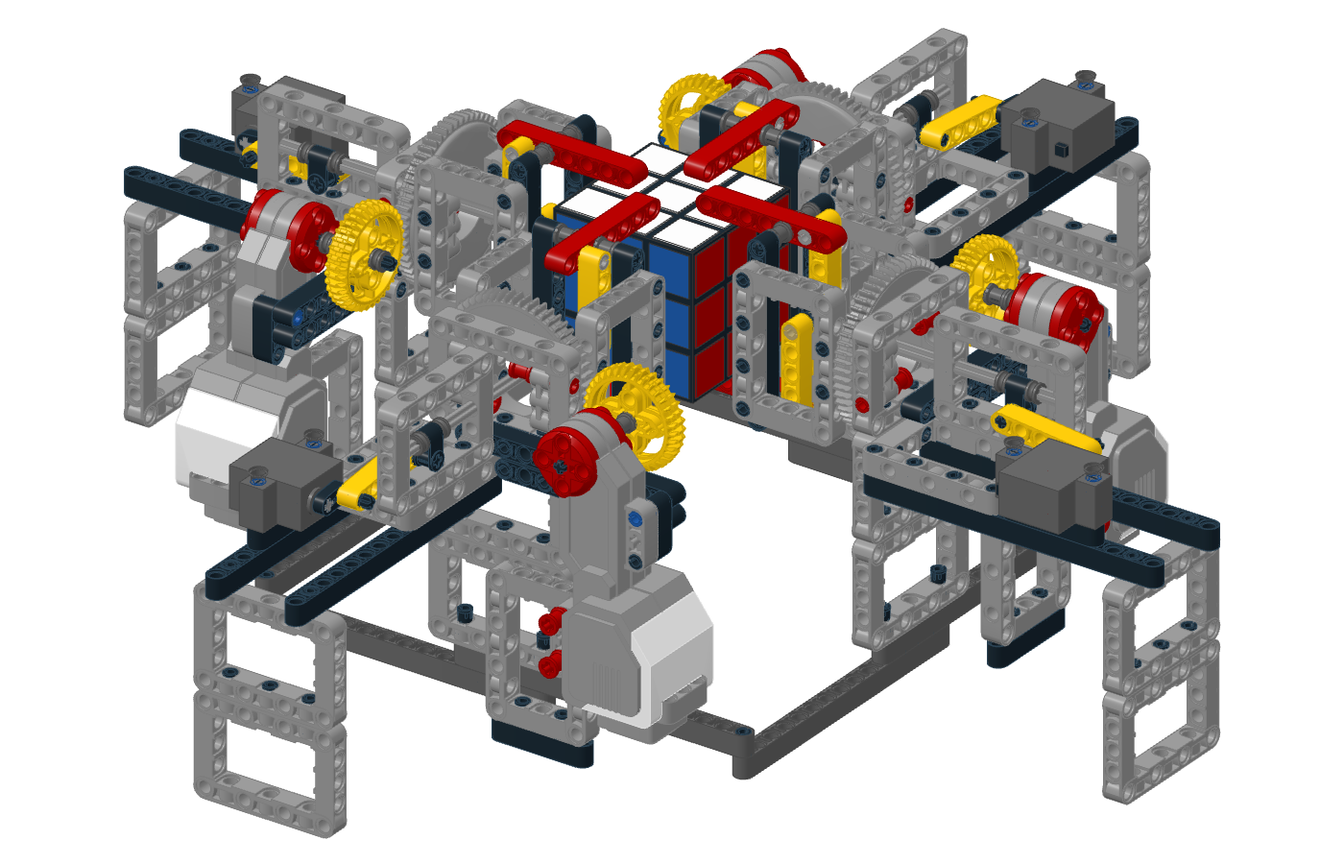
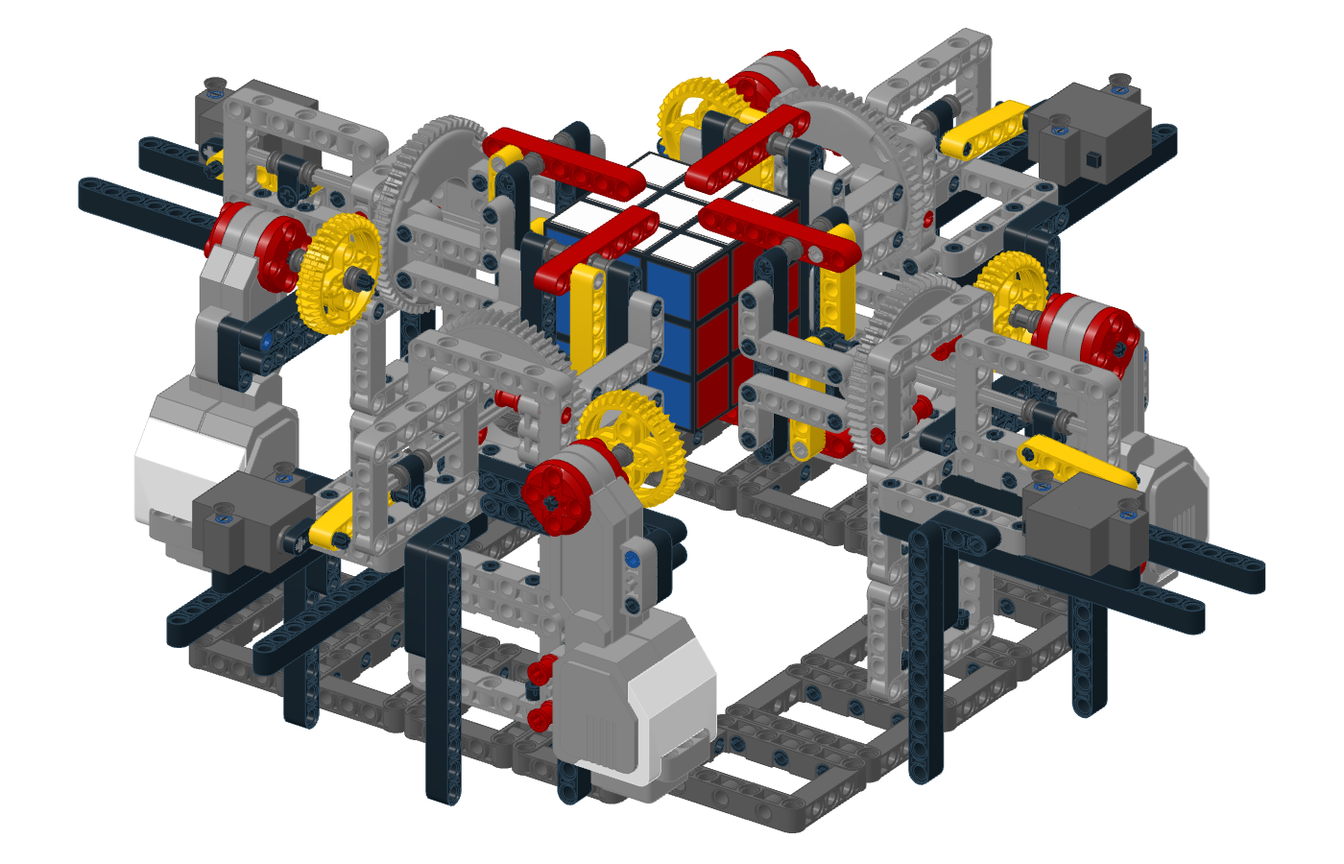
v3 恢复框架底座，模块里更多框架换成竖梁和 L 形梁（整机 36 块）
用户指出：底座不该简化（要有完整的面），而模块里还有很多框架可以用竖梁、
L 形梁代替而不影响刚度。
- 底座恢复为 16 块框架的风车形方框，桌面回到 y = 270。
- 机械头侧板：每侧改成两根 3x5 L 形梁，长臂接转盘上半、短臂和长臂末端
  共 4 个销接 9 孔梁，不会绕销转动。
- 平台支腿：两块框架改为每侧一根 L 形梁（短臂 2 个销插框架长边侧孔）+
  一根 11 孔竖梁。
- 马达尾部耳朵缝里的框架改为一根竖放的 7 孔梁，兼作脚。
模块里只留竖墙 3、推杆导向 1、平台前半 1。run_check、four_arm 零问题。

Claude-Session: https://claude.ai/code/session_01Ms6v6oKbLQsBqZ2uktk7cX

diff --git a/docs/lego/v3/index.html b/docs/lego/v3/index.html
@@ -90,12 +90,12 @@ ul.plain{margin:0;padding-left:1.2em;display:grid;gap:6px;max-width:70ch}
 <h1>四臂整机: 死点锁紧夹爪 + 不随转的舵机</h1>
 <p class="lead">v2 解决了 "机械臂挂在马达输出轴上" 的问题, 但它仍然是一只单臂, 转动部分又长又重, 舵机跟着转。CubeStormer 3 这一级别的机器, 专业性体现在整机: 四只机械手又短又轻、夹得住也松得开、能连续旋转, 四只之间互不干涉。v3 按这个目标从整机重新设计, 自成一套模型和检查。之前的版本都保留不动: <a href="https://claude.ai/artifact/BWgtEpkX4PGRGnYzvNV2L4">v1 大马达版</a>、<a href="https://claude.ai/artifact/9yGEt1ogaxxmStkyxYWYBL">v2 转盘版</a>。</p>
 <div class="plate"><img src="img/cover.png" alt="四臂整机总览" class="" loading="lazy" width="1400" height="900"></div>
-<div class="facts"><div class="fact"><b>20</b><span>个步骤 (一个模块的完整步骤, 其余三个照做)</span></div><div class="fact"><b>432</b><span>个乐高零件, 另加 EV3 大马达和 Geekservo 各 4 个</span></div><div class="fact"><b>约 52 mm</b><span>转动部分长度 (v2 约 144mm)</span></div><div class="fact"><b>无限</b><span>机械手旋转范围 (舵机不跟着转)</span></div></div>
-<nav class="toc"><a href="#eval">v2 评估</a><a href="#idea">设计思路</a><a href="#four">四臂检查</a><a href="#buy">要买的零件</a><a href="#bom">零件清单</a><a href="#s1">1. 底座</a><a href="#s2">2. 竖墙</a><a href="#s3">3. 转盘下半</a><a href="#s4">4. 马达固定板</a><a href="#s5">5. 马达前梁</a><a href="#s6">6. 齿轮</a><a href="#s7">7. 装竖墙</a><a href="#s8">8. 装马达</a><a href="#s9">9. 舵机平台</a><a href="#s10">10. 舵机</a><a href="#s11">11. 装平台</a><a href="#s12">12. 十字块和舵机连杆</a><a href="#s13">13. 侧板与夹指架</a><a href="#s14">14. 转盘上半</a><a href="#s15">15. 夹指</a><a href="#s16">16. 连杆与十字接头</a><a href="#s17">17. 推杆</a><a href="#s18">18. 装机械头</a><a href="#s19">19. 装另外三个机械手</a><a href="#s20">20. 放入魔方</a><a href="#checks">检查与待验证</a><a href="#safety">上电前</a></nav>
+<div class="facts"><div class="fact"><b>20</b><span>个步骤 (一个模块的完整步骤, 其余三个照做)</span></div><div class="fact"><b>482</b><span>个乐高零件, 另加 EV3 大马达和 Geekservo 各 4 个</span></div><div class="fact"><b>约 52 mm</b><span>转动部分长度 (v2 约 144mm)</span></div><div class="fact"><b>无限</b><span>机械手旋转范围 (舵机不跟着转)</span></div></div>
+<nav class="toc"><a href="#eval">v2 评估</a><a href="#idea">设计思路</a><a href="#four">四臂检查</a><a href="#buy">要买的零件</a><a href="#bom">零件清单</a><a href="#s1">1. 底座</a><a href="#s2">2. 竖墙</a><a href="#s3">3. 转盘下半</a><a href="#s4">4. 马达尾脚</a><a href="#s5">5. 马达前梁</a><a href="#s6">6. 齿轮</a><a href="#s7">7. 装竖墙</a><a href="#s8">8. 装马达</a><a href="#s9">9. 舵机平台</a><a href="#s10">10. 舵机</a><a href="#s11">11. 装平台</a><a href="#s12">12. 十字块和舵机连杆</a><a href="#s13">13. 侧板与夹指架</a><a href="#s14">14. 转盘上半</a><a href="#s15">15. 夹指</a><a href="#s16">16. 连杆与十字接头</a><a href="#s17">17. 推杆</a><a href="#s18">18. 装机械头</a><a href="#s19">19. 装另外三个机械手</a><a href="#s20">20. 放入魔方</a><a href="#checks">检查与待验证</a><a href="#safety">上电前</a></nav>
 </header>
 <section id="eval" class="cover"><h2>v2 评估: 离 CubeStormer 3 的专业水准还差在整机</h2>
 <p>CubeStormer 3 没有公开图纸和源码, 下表 "CS3 级别的做法" 一列是从公开视频能看到的整体特征归纳出来的, 不是对它内部结构的复刻。v3 的每个具体结构都是在这里重新推导、并用程序检查过的。</p>
-<div class="tbl"><table class="cmp"><tr><th>方面</th><th>v2</th><th>CS3 级别的做法</th><th>v3</th></tr><tr><td>整机形态</td><td>只有单臂; 四臂怎么排、底座怎么连都没有设计, 也没有四臂之间的干涉检查</td><td>四个一样的模块两两垂直, 固定在一个整体底座上</td><td>四个相同模块 + 8 根 15 孔梁上下两层拼成的方框底座, 孔位保证四根轴线过魔方中心、两两垂直; 四臂干涉按全部状态组合扫描过</td></tr><tr><td>转动部分</td><td>转盘上装着舵机、叉子盒、两根 16 号导轨, 从转盘端面到魔方约 144mm, 转动惯量大</td><td>夹爪短而轻, 马达和舵机都不跟着转</td><td>转动的只有转盘上半、两块侧板、夹指、连杆和推杆, 约 52mm 长, 没有舵机和马达</td></tr><tr><td>夹紧</td><td>U 形叉沿轴向插入, 水平时没有压紧力, 曲柄停在死点不等于锁紧 (外部评审 ① ②)</td><td>两片夹指从两侧合拢夹住魔方</td><td>两片会转的夹指 + 肘节连杆: 连杆推到死点时魔方的反推力沿连杆方向互相抵消, 夹指推不开, 舵机不受力</td></tr><tr><td>旋转范围</td><td>舵机随机械手转动, 线缆会缠, 规划器必须限角度 (±270° 时规划慢 20 多倍)</td><td>机械手可以连续旋转</td><td>舵机固定在后面的平台上, 经穿过转盘中孔的推杆开合夹爪; 机械手可以无限旋转, 规划器不需要角度限制</td></tr><tr><td>驱动</td><td>马达输出轴直接带机械手</td><td>—</td><td>马达偏到侧面, 36 齿齿轮带 60 齿转盘外圈, 扭矩放大 1.67 倍, 马达的回差和编码器误差在机械手上缩小 1.67 倍; 输出轴不承受弯矩</td></tr></table></div>
+<div class="tbl"><table class="cmp"><tr><th>方面</th><th>v2</th><th>CS3 级别的做法</th><th>v3</th></tr><tr><td>整机形态</td><td>只有单臂; 四臂怎么排、底座怎么连都没有设计, 也没有四臂之间的干涉检查</td><td>四个一样的模块两两垂直, 固定在一个整体底座上</td><td>四个相同模块 + 16 块框架的风车形底座, 孔位保证四根轴线过魔方中心、两两垂直; 四臂干涉按全部状态组合扫描过</td></tr><tr><td>转动部分</td><td>转盘上装着舵机、叉子盒、两根 16 号导轨, 从转盘端面到魔方约 144mm, 转动惯量大</td><td>夹爪短而轻, 马达和舵机都不跟着转</td><td>转动的只有转盘上半、两块侧板、夹指、连杆和推杆, 约 52mm 长, 没有舵机和马达</td></tr><tr><td>夹紧</td><td>U 形叉沿轴向插入, 水平时没有压紧力, 曲柄停在死点不等于锁紧 (外部评审 ① ②)</td><td>两片夹指从两侧合拢夹住魔方</td><td>两片会转的夹指 + 肘节连杆: 连杆推到死点时魔方的反推力沿连杆方向互相抵消, 夹指推不开, 舵机不受力</td></tr><tr><td>旋转范围</td><td>舵机随机械手转动, 线缆会缠, 规划器必须限角度 (±270° 时规划慢 20 多倍)</td><td>机械手可以连续旋转</td><td>舵机固定在后面的平台上, 经穿过转盘中孔的推杆开合夹爪; 机械手可以无限旋转, 规划器不需要角度限制</td></tr><tr><td>驱动</td><td>马达输出轴直接带机械手</td><td>—</td><td>马达偏到侧面, 36 齿齿轮带 60 齿转盘外圈, 扭矩放大 1.67 倍, 马达的回差和编码器误差在机械手上缩小 1.67 倍; 输出轴不承受弯矩</td></tr></table></div>
 </section>
 <section id="idea" class="cover"><h2>设计思路</h2>
 <div class="two"><figure style="margin:0" class="cover"><div class="plate"><img src="img/mech_closed.png" alt="夹紧" class="" loading="lazy" width="1000" height="620"></div><figcaption class="cap">侧视, 夹紧: 两根黄色连杆和推杆垂直 (死点), 夹指合拢在魔方外层上下两侧</figcaption></figure><figure style="margin:0" class="cover"><div class="plate"><img src="img/mech_open.png" alt="松开" class="" loading="lazy" width="1000" height="620"></div><figcaption class="cap">侧视, 松开: 推杆后退 12mm, 夹指张开约 18°</figcaption></figure></div>
@@ -110,28 +110,31 @@ ul.plain{margin:0;padding-left:1.2em;display:grid;gap:6px;max-width:70ch}
 <div class="note"><b>相邻两只机械手不能同时水平。</b>这是任何从外侧夹住魔方的夹爪都有的几何限制: 两只相邻机械手都转到水平时, 两副夹指会在魔方棱边外面的同一个位置相遇。v3 把它写进了规划器的可选约束 (<code>python -m quadcuber plan ... --no-adjacent-horizontal</code>): 转动中的机械手, 两侧邻居必须竖直且不同时转动。按现在的估算耗时, 20 步随机序列平均从 7.95 秒变成 9.69 秒 (约 +22%)。</div>
 </section>
 <section id="buy" class="cover"><h2>要买的零件</h2>
-<div class="tbl"><table><tr><th>零件</th><th>编号</th><th>整机数量</th><th>说明</th></tr><tr><td>60 齿转盘 上半 + 下半</td><td>18938 + 18939</td><td>4 套</td><td>每只机械手 1 套; v2 已经买了 1 套的话再买 3 套</td></tr><tr><td>36 齿双面锥齿轮</td><td>32498</td><td>4</td><td>和转盘外圈啮合</td></tr><tr><td>7x5 框架</td><td>64179</td><td>40</td><td>每个模块 10 块 (竖墙 3、机械头侧板 2、导向 1、平台 1、支腿 2、马达尾部 1), 底座不用框架</td></tr><tr><td>15 孔 / 11 孔 / 3 孔粗梁</td><td>32278 / 32525 / 32523</td><td>16 / 4 / 4</td><td>底座 8 根 15 孔, 平台每个 2 根 15 孔; 马达前端的梁</td></tr><tr><td>十字轴接头 (带圆孔)</td><td>32039</td><td>4</td><td>夹爪的十字接头</td></tr><tr><td>十字块 1x2</td><td>6536</td><td>4</td><td>推杆上的十字块</td></tr><tr><td>2 孔细梁 (两端十字孔)</td><td>41677</td><td>4</td><td>舵机曲柄</td></tr><tr><td>无摩擦长销 / 无摩擦销</td><td>32556a / 3673</td><td>4 / 8</td><td>夹爪的活动关节</td></tr><tr><td>摩擦销</td><td>2780</td><td>204</td><td>多买一些备用</td></tr><tr><td>EV3 大马达 / Geekservo 灰色</td><td>—</td><td>4 / 4</td><td>现在只有 2 个大马达, 还缺 2 个</td></tr></table></div>
-<p class="cap">可以先只搭一个模块 (底座只要它那一条边的 2 根 15 孔梁) 做单臂实测, 验证夹持和转速后再买齐四套。</p>
+<div class="tbl"><table><tr><th>零件</th><th>编号</th><th>整机数量</th><th>说明</th></tr><tr><td>60 齿转盘 上半 + 下半</td><td>18938 + 18939</td><td>4 套</td><td>每只机械手 1 套; v2 已经买了 1 套的话再买 3 套</td></tr><tr><td>36 齿双面锥齿轮</td><td>32498</td><td>4</td><td>和转盘外圈啮合</td></tr><tr><td>7x5 框架</td><td>64179</td><td>36</td><td>底座 16 块; 每个模块 5 块 (竖墙 3、推杆导向 1、平台前半 1), 其余都是梁</td></tr><tr><td>3x5 L 形粗梁</td><td>32526</td><td>24</td><td>机械头侧板每侧 2 根, 平台支腿每侧 1 根</td></tr><tr><td>15 孔 / 11 孔 / 3 孔粗梁</td><td>32278 / 32525 / 32523</td><td>8 / 12 / 4</td><td>平台下的梁、支腿竖梁、马达前端的梁</td></tr><tr><td>十字轴接头 (带圆孔)</td><td>32039</td><td>4</td><td>夹爪的十字接头</td></tr><tr><td>十字块 1x2</td><td>6536</td><td>4</td><td>推杆上的十字块</td></tr><tr><td>2 孔细梁 (两端十字孔)</td><td>41677</td><td>4</td><td>舵机曲柄</td></tr><tr><td>无摩擦长销 / 无摩擦销</td><td>32556a / 3673</td><td>4 / 8</td><td>夹爪的活动关节</td></tr><tr><td>摩擦销</td><td>2780</td><td>234</td><td>多买一些备用</td></tr><tr><td>EV3 大马达 / Geekservo 灰色</td><td>—</td><td>4 / 4</td><td>现在只有 2 个大马达, 还缺 2 个</td></tr></table></div>
+<p class="cap">可以先只搭一个模块 (底座只要它那一排 4 块框架) 做单臂实测, 验证夹持和转速后再买齐四套。</p>
 </section>
 <section id="bom" class="cover"><h2>零件清单 (整机)</h2><p class="cap">颜色不限, 图中颜色只是为了区分 (深灰是底座, 红色是夹指, 黄色是连杆)。另需 56mm 魔方 1 个。</p><div class="bom">
 <div class="item"><img src="img/part_18938_71.png" alt="60 齿转盘 上半" class="" loading="lazy" width="260" height="200"><div class="qty">4×</div><div>60 齿转盘 上半</div><div class="mono">18938</div></div>
 <div class="item"><img src="img/part_18939_71.png" alt="60 齿转盘 下半" class="" loading="lazy" width="260" height="200"><div class="qty">4×</div><div>60 齿转盘 下半</div><div class="mono">18939</div></div>
 <div class="item"><img src="img/part_32039_0.png" alt="十字轴接头 (带圆孔)" class="" loading="lazy" width="260" height="200"><div class="qty">4×</div><div>十字轴接头 (带圆孔)</div><div class="mono">32039</div></div>
-<div class="item"><img src="img/part_32278_72.png" alt="15 孔粗梁" class="" loading="lazy" width="260" height="200"><div class="qty">8×</div><div>15 孔粗梁</div><div class="mono">32278</div></div>
 <div class="item"><img src="img/part_32278_0.png" alt="15 孔粗梁" class="" loading="lazy" width="260" height="200"><div class="qty">8×</div><div>15 孔粗梁</div><div class="mono">32278</div></div>
-<div class="item"><img src="img/part_32316_0.png" alt="5 孔粗梁" class="" loading="lazy" width="260" height="200"><div class="qty">8×</div><div>5 孔粗梁</div><div class="mono">32316</div></div>
+<div class="item"><img src="img/part_32316_0.png" alt="5 孔粗梁" class="" loading="lazy" width="260" height="200"><div class="qty">4×</div><div>5 孔粗梁</div><div class="mono">32316</div></div>
 <div class="item"><img src="img/part_32316_14.png" alt="5 孔粗梁" class="" loading="lazy" width="260" height="200"><div class="qty">12×</div><div>5 孔粗梁</div><div class="mono">32316</div></div>
 <div class="item"><img src="img/part_32498_14.png" alt="36 齿双面锥齿轮" class="" loading="lazy" width="260" height="200"><div class="qty">4×</div><div>36 齿双面锥齿轮</div><div class="mono">32498</div></div>
 <div class="item"><img src="img/part_32523_0.png" alt="3 孔粗梁" class="" loading="lazy" width="260" height="200"><div class="qty">4×</div><div>3 孔粗梁</div><div class="mono">32523</div></div>
+<div class="item"><img src="img/part_32524_0.png" alt="7 孔粗梁" class="" loading="lazy" width="260" height="200"><div class="qty">4×</div><div>7 孔粗梁</div><div class="mono">32524</div></div>
 <div class="item"><img src="img/part_32524_4.png" alt="7 孔粗梁" class="" loading="lazy" width="260" height="200"><div class="qty">8×</div><div>7 孔粗梁</div><div class="mono">32524</div></div>
-<div class="item"><img src="img/part_32525_0.png" alt="11 孔粗梁" class="" loading="lazy" width="260" height="200"><div class="qty">4×</div><div>11 孔粗梁</div><div class="mono">32525</div></div>
+<div class="item"><img src="img/part_32525_0.png" alt="11 孔粗梁" class="" loading="lazy" width="260" height="200"><div class="qty">12×</div><div>11 孔粗梁</div><div class="mono">32525</div></div>
+<div class="item"><img src="img/part_32526_0.png" alt="3x5 L 形粗梁" class="" loading="lazy" width="260" height="200"><div class="qty">8×</div><div>3x5 L 形粗梁</div><div class="mono">32526</div></div>
+<div class="item"><img src="img/part_32526_71.png" alt="3x5 L 形粗梁" class="" loading="lazy" width="260" height="200"><div class="qty">16×</div><div>3x5 L 形粗梁</div><div class="mono">32526</div></div>
 <div class="item"><img src="img/part_40490_0.png" alt="9 孔粗梁" class="" loading="lazy" width="260" height="200"><div class="qty">12×</div><div>9 孔粗梁</div><div class="mono">40490</div></div>
 <div class="item"><img src="img/part_41677_0.png" alt="2 孔细梁 (两端十字孔)" class="" loading="lazy" width="260" height="200"><div class="qty">4×</div><div>2 孔细梁 (两端十字孔)</div><div class="mono">41677</div></div>
-<div class="item"><img src="img/part_64179_71.png" alt="7x5 框架" class="" loading="lazy" width="260" height="200"><div class="qty">40×</div><div>7x5 框架</div><div class="mono">64179</div></div>
+<div class="item"><img src="img/part_64179_72.png" alt="7x5 框架" class="" loading="lazy" width="260" height="200"><div class="qty">16×</div><div>7x5 框架</div><div class="mono">64179</div></div>
+<div class="item"><img src="img/part_64179_71.png" alt="7x5 框架" class="" loading="lazy" width="260" height="200"><div class="qty">20×</div><div>7x5 框架</div><div class="mono">64179</div></div>
 <div class="item"><img src="img/part_6536_0.png" alt="十字块 1x2 (十字孔 + 圆孔)" class="" loading="lazy" width="260" height="200"><div class="qty">4×</div><div>十字块 1x2 (十字孔 + 圆孔)</div><div class="mono">6536</div></div>
 <div class="item"><img src="img/part_95658_15.png" alt="EV3 大马达" class="" loading="lazy" width="260" height="200"><div class="qty">4×</div><div>EV3 大马达</div><div class="mono">95658</div></div>
 <div class="item"><img src="img/part_geekservo_72.png" alt="Geekservo 舵机 (灰色, 270°)" class="" loading="lazy" width="260" height="200"><div class="qty">4×</div><div>Geekservo 舵机 (灰色, 270°)</div><div class="mono">geekservo</div></div>
-<div class="item"><img src="img/part_2780_0.png" alt="摩擦销 (2 孔长)" class="" loading="lazy" width="260" height="200"><div class="qty">204×</div><div>摩擦销 (2 孔长)</div><div class="mono">2780</div></div>
+<div class="item"><img src="img/part_2780_0.png" alt="摩擦销 (2 孔长)" class="" loading="lazy" width="260" height="200"><div class="qty">234×</div><div>摩擦销 (2 孔长)</div><div class="mono">2780</div></div>
 <div class="item"><img src="img/part_32054_4.png" alt="带挡套长销 (3 孔长, 红色)" class="" loading="lazy" width="260" height="200"><div class="qty">16×</div><div>带挡套长销 (3 孔长, 红色)</div><div class="mono">32054</div></div>
 <div class="item"><img src="img/part_32062_0.png" alt="2 号轴" class="" loading="lazy" width="260" height="200"><div class="qty">8×</div><div>2 号轴</div><div class="mono">32062</div></div>
 <div class="item"><img src="img/part_32073_0.png" alt="5 号轴" class="" loading="lazy" width="260" height="200"><div class="qty">8×</div><div>5 号轴</div><div class="mono">32073</div></div>
@@ -150,9 +153,9 @@ ul.plain{margin:0;padding-left:1.2em;display:grid;gap:6px;max-width:70ch}
 <div class="subtag">子组件 · 底座</div>
 <h3>底座</h3></div>
 </div>
-<div class="callout"><div class="chip"><img src="img/part_32278_72.png" alt="15 孔粗梁" class="" loading="lazy" width="260" height="200"><div class="x">8×</div><div class="n">15 孔粗梁</div></div><div class="chip"><img src="img/part_2780_0.png" alt="摩擦销 (2 孔长)" class="" loading="lazy" width="260" height="200"><div class="x">16×</div><div class="n">摩擦销 (2 孔长)</div></div></div>
+<div class="callout"><div class="chip"><img src="img/part_64179_72.png" alt="7x5 框架" class="" loading="lazy" width="260" height="200"><div class="x">16×</div><div class="n">7x5 框架</div></div><div class="chip"><img src="img/part_2780_0.png" alt="摩擦销 (2 孔长)" class="" loading="lazy" width="260" height="200"><div class="x">42×</div><div class="n">摩擦销 (2 孔长)</div></div></div>
 <div class="plate"><img src="img/step01.png" alt="底座" class="" loading="lazy" width="1200" height="860"></div>
-<p>8 根 15 孔粗梁平放, 围成一个方框, 每条边两根上下叠放。先摆下层: 4 根梁各沿一条边, 都从一个角开始, 按同一个转向排成风车形, 每根的另一头停在这条边过中点 2 个孔的地方。在每根下层梁靠近中点那一头的第 2、3、4 个孔 和伸到角上的端孔各插 1 个摩擦销, 共 4 个。再把 4 根上层梁压上去: 每根从另一个角开始, 端孔扣在前一条边下层梁角上的销上, 中间 3 个孔扣在这条边下层梁的 3 个销上。竖墙将来立在每条边的重叠段上。</p>
+<p>16 块 7x5 框架平放, 拼成风车形的方框: 每一排 4 块长边对长边, 每条缝 3 个摩擦销; 一排的最后一块用短边顶住下一排第一块的长边, 2 个摩擦销。四排绕中心转 90° 首尾相接, 中间留出放魔方的空间。最后合拢的那条缝不插销 (两边已经各自连成一体, 销插不进去), 只是顶住; 其余三条缝已经让底座连成一个整体。</p>
 </section>
 <section class="step sub" id="s2">
 <div class="step-head">
@@ -178,11 +181,11 @@ ul.plain{margin:0;padding-left:1.2em;display:grid;gap:6px;max-width:70ch}
 <div class="step-head">
 <div class="num">4</div><div class="title-block">
 <div class="subtag">子组件 · 马达</div>
-<h3>马达固定板</h3></div>
+<h3>马达尾脚</h3></div>
 </div>
-<div class="callout"><div class="chip"><img src="img/part_95658_15.png" alt="EV3 大马达" class="" loading="lazy" width="260" height="200"><div class="x">1×</div><div class="n">EV3 大马达</div></div><div class="chip"><img src="img/part_64179_71.png" alt="7x5 框架" class="" loading="lazy" width="260" height="200"><div class="x">1×</div><div class="n">7x5 框架</div></div><div class="chip"><img src="img/part_32054_4.png" alt="带挡套长销 (3 孔长, 红色)" class="" loading="lazy" width="260" height="200"><div class="x">2×</div><div class="n">带挡套长销 (3 孔长, 红色)</div></div><div class="chip"><img src="img/part_32316_0.png" alt="5 孔粗梁" class="" loading="lazy" width="260" height="200"><div class="x">1×</div><div class="n">5 孔粗梁</div></div><div class="chip"><img src="img/part_2780_0.png" alt="摩擦销 (2 孔长)" class="" loading="lazy" width="260" height="200"><div class="x">2×</div><div class="n">摩擦销 (2 孔长)</div></div></div>
-<div class="plate"><img src="img/step04.png" alt="马达固定板" class="" loading="lazy" width="1200" height="860"></div>
-<p>7x5 框架插进马达尾部两片耳朵之间的缝里, 两根红色带挡套长销从同一侧穿过耳朵和框架 (TRACK3R 的做法)。框架底边两头的侧孔各插 1 个摩擦销, 压上一根 5 孔粗梁当脚, 马达立起来时脚踩在桌面上。</p>
+<div class="callout"><div class="chip"><img src="img/part_95658_15.png" alt="EV3 大马达" class="" loading="lazy" width="260" height="200"><div class="x">1×</div><div class="n">EV3 大马达</div></div><div class="chip"><img src="img/part_32524_0.png" alt="7 孔粗梁" class="" loading="lazy" width="260" height="200"><div class="x">1×</div><div class="n">7 孔粗梁</div></div><div class="chip"><img src="img/part_32054_4.png" alt="带挡套长销 (3 孔长, 红色)" class="" loading="lazy" width="260" height="200"><div class="x">2×</div><div class="n">带挡套长销 (3 孔长, 红色)</div></div></div>
+<div class="plate"><img src="img/step04.png" alt="马达尾脚" class="" loading="lazy" width="1200" height="860"></div>
+<p>一根 7 孔粗梁竖着插进马达尾部两片耳朵之间的缝里, 上端两个孔对准耳朵的两个圆孔, 两根红色带挡套长销从同一侧穿过耳朵和梁 (TRACK3R 的耳朵固定方式)。梁的下端伸出马达底面, 马达立起来时踩在桌面上。</p>
 </section>
 <section class="step sub" id="s5">
 <div class="step-head">
@@ -220,7 +223,7 @@ ul.plain{margin:0;padding-left:1.2em;display:grid;gap:6px;max-width:70ch}
 </div>
 <div class="callout"><div class="chip"><img src="img/sub2.png" alt="马达" class="" loading="lazy" width="260" height="200"><div class="x">1×</div><div class="n">做好的马达</div></div><div class="chip"><img src="img/part_2780_0.png" alt="摩擦销 (2 孔长)" class="" loading="lazy" width="260" height="200"><div class="x">5×</div><div class="n">摩擦销 (2 孔长)</div></div></div>
 <div class="plate"><img src="img/step08.png" alt="装马达" class="" loading="lazy" width="1200" height="860"></div>
-<p>在两根横梁上对准竖墙框架正面孔的位置插摩擦销: 11 孔梁 3 个 (接最上面那块框架), 9 孔梁 2 个 (接中间那块框架)。把整个马达组件平推到竖墙背面, 5 个销同时插进墙上的孔; 马达的脚落在桌面上。装机械头时 36 齿齿轮和转盘上半的齿啮合 (两轴相距 3 个孔 = 两个节圆半径之和)。</p>
+<p>在两根横梁上对准竖墙框架正面孔的位置插摩擦销: 11 孔梁 3 个 (接最上面那块框架), 9 孔梁 2 个 (接中间那块框架)。把整个马达组件平推到竖墙背面, 5 个销同时插进墙上的孔; 马达尾部的竖梁踩在桌面上。装机械头时 36 齿齿轮和转盘上半的齿啮合 (两轴相距 3 个孔 = 两个节圆半径之和)。</p>
 </section>
 <section class="step sub" id="s9">
 <div class="step-head">
@@ -228,9 +231,9 @@ ul.plain{margin:0;padding-left:1.2em;display:grid;gap:6px;max-width:70ch}
 <div class="subtag">子组件 · 平台</div>
 <h3>舵机平台</h3></div>
 </div>
-<div class="callout"><div class="chip"><img src="img/part_64179_71.png" alt="7x5 框架" class="" loading="lazy" width="260" height="200"><div class="x">4×</div><div class="n">7x5 框架</div></div><div class="chip"><img src="img/part_32278_0.png" alt="15 孔粗梁" class="" loading="lazy" width="260" height="200"><div class="x">2×</div><div class="n">15 孔粗梁</div></div><div class="chip"><img src="img/part_2780_0.png" alt="摩擦销 (2 孔长)" class="" loading="lazy" width="260" height="200"><div class="x">16×</div><div class="n">摩擦销 (2 孔长)</div></div><div class="chip"><img src="img/part_32316_0.png" alt="5 孔粗梁" class="" loading="lazy" width="260" height="200"><div class="x">1×</div><div class="n">5 孔粗梁</div></div></div>
+<div class="callout"><div class="chip"><img src="img/part_64179_71.png" alt="7x5 框架" class="" loading="lazy" width="260" height="200"><div class="x">2×</div><div class="n">7x5 框架</div></div><div class="chip"><img src="img/part_32278_0.png" alt="15 孔粗梁" class="" loading="lazy" width="260" height="200"><div class="x">2×</div><div class="n">15 孔粗梁</div></div><div class="chip"><img src="img/part_2780_0.png" alt="摩擦销 (2 孔长)" class="" loading="lazy" width="260" height="200"><div class="x">19×</div><div class="n">摩擦销 (2 孔长)</div></div><div class="chip"><img src="img/part_32316_0.png" alt="5 孔粗梁" class="" loading="lazy" width="260" height="200"><div class="x">1×</div><div class="n">5 孔粗梁</div></div><div class="chip"><img src="img/part_32526_0.png" alt="3x5 L 形粗梁" class="" loading="lazy" width="260" height="200"><div class="x">2×</div><div class="n">3x5 L 形粗梁</div></div><div class="chip"><img src="img/part_32525_0.png" alt="11 孔粗梁" class="" loading="lazy" width="260" height="200"><div class="x">2×</div><div class="n">11 孔粗梁</div></div></div>
 <div class="plate"><img src="img/step09.png" alt="舵机平台" class="" loading="lazy" width="1200" height="860"></div>
-<p>两根 15 孔粗梁平放、平行, 相距 4 个孔。一块 7x5 框架平放压在两根梁的前段上 (框架前端和梁前端对齐), 5 个摩擦销竖着连起来 (框架正面孔: 一根梁 4 个, 另一根梁只插最前面 1 个, 其余 3 个孔留给导向框架)。梁的后段上面, 舵机那一侧压一根 5 孔粗梁当舵机垫块, 3 个摩擦销。两根梁后端下面竖着上下拼两块框架当支腿 (立在桌面上)。平台前段上面竖立一块框架当推杆导向: 它长边沿推杆方向, 底边用 3 个摩擦销竖着插进平台; 两条短边上正中的侧孔 (圆孔) 就是推杆的两个轴承。</p>
+<p>两根 15 孔粗梁平放、平行, 相距 4 个孔。一块 7x5 框架平放压在两根梁的前段上 (框架前端和梁前端对齐), 5 个摩擦销竖着连起来 (框架正面孔: 一根梁 4 个, 另一根梁只插最前面 1 个, 其余 3 个孔留给导向框架)。梁的后段上面, 舵机那一侧压一根 5 孔粗梁当舵机垫块, 3 个摩擦销。支腿: 框架两条长边外侧各贴一根 3x5 L 形梁, 短臂沿推杆方向, 2 个摩擦销插进框架长边的侧孔, 长臂朝下; 长臂外面再用 2 个摩擦销接一根竖着的 11 孔粗梁, 下端踩在桌面上。平台前段上面竖立一块框架当推杆导向: 它长边沿推杆方向, 底边用 3 个摩擦销竖着插进平台; 两条短边上正中的侧孔 (圆孔) 就是推杆的两个轴承。</p>
 </section>
 <section class="step sub" id="s10">
 <div class="step-head">
@@ -266,9 +269,9 @@ ul.plain{margin:0;padding-left:1.2em;display:grid;gap:6px;max-width:70ch}
 <div class="subtag">子组件 · 机械头</div>
 <h3>侧板与夹指架</h3></div>
 </div>
-<div class="callout"><div class="chip"><img src="img/part_64179_71.png" alt="7x5 框架" class="" loading="lazy" width="260" height="200"><div class="x">2×</div><div class="n">7x5 框架</div></div><div class="chip"><img src="img/part_40490_0.png" alt="9 孔粗梁" class="" loading="lazy" width="260" height="200"><div class="x">2×</div><div class="n">9 孔粗梁</div></div><div class="chip"><img src="img/part_2780_0.png" alt="摩擦销 (2 孔长)" class="" loading="lazy" width="260" height="200"><div class="x">8×</div><div class="n">摩擦销 (2 孔长)</div></div></div>
+<div class="callout"><div class="chip"><img src="img/part_32526_71.png" alt="3x5 L 形粗梁" class="" loading="lazy" width="260" height="200"><div class="x">4×</div><div class="n">3x5 L 形粗梁</div></div><div class="chip"><img src="img/part_40490_0.png" alt="9 孔粗梁" class="" loading="lazy" width="260" height="200"><div class="x">2×</div><div class="n">9 孔粗梁</div></div><div class="chip"><img src="img/part_2780_0.png" alt="摩擦销 (2 孔长)" class="" loading="lazy" width="260" height="200"><div class="x">8×</div><div class="n">摩擦销 (2 孔长)</div></div></div>
 <div class="plate"><img src="img/step13.png" alt="侧板与夹指架" class="" loading="lazy" width="1200" height="860"></div>
-<p>两块 7x5 框架竖放 (5 孔方向沿推杆), 各在内侧贴一根 9 孔粗梁 (竖直), 每根用 4 个摩擦销连起来。粗梁贴在框架靠魔方的那条短边上, 它上下两端的孔就是夹指的转轴孔。这样做两套, 左右对称。</p>
+<p>两根 3x5 L 形梁竖放, 长臂沿推杆方向, 两根长臂一上一下平行 (相距 2 个孔), 短臂都在靠魔方的一头, 一根朝上、一根朝下; 内侧贴一根 9 孔粗梁 (竖直), 4 个摩擦销穿过两根 L 形梁的短臂和长臂末端连起来。9 孔梁上下两端的孔就是夹指的转轴孔。这样做两套, 左右对称。</p>
 </section>
 <section class="step sub" id="s14">
 <div class="step-head">
@@ -278,7 +281,7 @@ ul.plain{margin:0;padding-left:1.2em;display:grid;gap:6px;max-width:70ch}
 </div>
 <div class="callout"><div class="chip"><img src="img/part_18938_71.png" alt="60 齿转盘 上半" class="" loading="lazy" width="260" height="200"><div class="x">1×</div><div class="n">60 齿转盘 上半</div></div><div class="chip"><img src="img/part_2780_0.png" alt="摩擦销 (2 孔长)" class="" loading="lazy" width="260" height="200"><div class="x">4×</div><div class="n">摩擦销 (2 孔长)</div></div></div>
 <div class="plate"><img src="img/step14.png" alt="转盘上半" class="" loading="lazy" width="1200" height="860"></div>
-<p>60 齿转盘的上半 (有齿): 先在底部凸台两头各插 2 个摩擦销 (上下两个孔, 挡环贴住凸台端面), 有齿的一面朝后。再把两套侧板从左右两边压到销上, 侧板后端的孔对准销, 粗梁在内侧朝魔方。</p>
+<p>60 齿转盘的上半 (有齿): 先在底部凸台两头各插 2 个摩擦销 (上下两个孔, 挡环贴住凸台端面), 有齿的一面朝后。再把两套侧板从左右两边压到销上, 两根 L 形梁长臂后端的孔对准销, 粗梁在内侧朝魔方。</p>
 </section>
 <section class="step sub" id="s15">
 <div class="step-head">

diff --git a/tools/lego/v3/booklet.py b/tools/lego/v3/booklet.py
@@ -178,7 +178,7 @@ ul.plain{margin:0;padding-left:1.2em;display:grid;gap:6px;max-width:70ch}
 
 EVAL_ROWS = [
     ("整机形态", "只有单臂; 四臂怎么排、底座怎么连都没有设计, 也没有四臂之间的干涉检查",
-     "四个一样的模块两两垂直, 固定在一个整体底座上", "四个相同模块 + 8 根 15 孔梁上下两层拼成的方框底座, 孔位保证四根轴线过魔方中心、两两垂直; 四臂干涉按全部状态组合扫描过"),
+     "四个一样的模块两两垂直, 固定在一个整体底座上", "四个相同模块 + 16 块框架的风车形底座, 孔位保证四根轴线过魔方中心、两两垂直; 四臂干涉按全部状态组合扫描过"),
     ("转动部分", "转盘上装着舵机、叉子盒、两根 16 号导轨, 从转盘端面到魔方约 144mm, 转动惯量大",
      "夹爪短而轻, 马达和舵机都不跟着转", "转动的只有转盘上半、两块侧板、夹指、连杆和推杆, 约 52mm 长, 没有舵机和马达"),
     ("夹紧", "U 形叉沿轴向插入, 水平时没有压紧力, 曲柄停在死点不等于锁紧 (外部评审 ① ②)",
@@ -295,8 +295,9 @@ def write_html(parts, step_new, keys, subs):
     out.append('<div class="tbl"><table><tr><th>零件</th><th>编号</th><th>整机数量</th><th>说明</th></tr>'
                "<tr><td>60 齿转盘 上半 + 下半</td><td>18938 + 18939</td><td>4 套</td><td>每只机械手 1 套; v2 已经买了 1 套的话再买 3 套</td></tr>"
                "<tr><td>36 齿双面锥齿轮</td><td>32498</td><td>4</td><td>和转盘外圈啮合</td></tr>"
-               f"<tr><td>7x5 框架</td><td>64179</td><td>{byname['64179.dat']}</td><td>每个模块 10 块 (竖墙 3、机械头侧板 2、导向 1、平台 1、支腿 2、马达尾部 1), 底座不用框架</td></tr>"
-               f"<tr><td>15 孔 / 11 孔 / 3 孔粗梁</td><td>32278 / 32525 / 32523</td><td>{byname['32278.dat']} / {byname['32525.dat']} / {byname['32523.dat']}</td><td>底座 8 根 15 孔, 平台每个 2 根 15 孔; 马达前端的梁</td></tr>"
+               f"<tr><td>7x5 框架</td><td>64179</td><td>{byname['64179.dat']}</td><td>底座 16 块; 每个模块 5 块 (竖墙 3、推杆导向 1、平台前半 1), 其余都是梁</td></tr>"
+               f"<tr><td>3x5 L 形粗梁</td><td>32526</td><td>{byname['32526.dat']}</td><td>机械头侧板每侧 2 根, 平台支腿每侧 1 根</td></tr>"
+               f"<tr><td>15 孔 / 11 孔 / 3 孔粗梁</td><td>32278 / 32525 / 32523</td><td>{byname['32278.dat']} / {byname['32525.dat']} / {byname['32523.dat']}</td><td>平台下的梁、支腿竖梁、马达前端的梁</td></tr>"
                "<tr><td>十字轴接头 (带圆孔)</td><td>32039</td><td>4</td><td>夹爪的十字接头</td></tr>"
                "<tr><td>十字块 1x2</td><td>6536</td><td>4</td><td>推杆上的十字块</td></tr>"
                "<tr><td>2 孔细梁 (两端十字孔)</td><td>41677</td><td>4</td><td>舵机曲柄</td></tr>"
@@ -304,7 +305,7 @@ def write_html(parts, step_new, keys, subs):
                f"<tr><td>摩擦销</td><td>2780</td><td>{byname['2780.dat']}</td><td>多买一些备用</td></tr>"
                "<tr><td>EV3 大马达 / Geekservo 灰色</td><td>—</td><td>4 / 4</td><td>现在只有 2 个大马达, 还缺 2 个</td></tr>"
                "</table></div>")
-    out.append('<p class="cap">可以先只搭一个模块 (底座只要它那一条边的 2 根 15 孔梁) 做单臂实测, 验证夹持和转速后再买齐四套。</p>')
+    out.append('<p class="cap">可以先只搭一个模块 (底座只要它那一排 4 块框架) 做单臂实测, 验证夹持和转速后再买齐四套。</p>')
     out.append("</section>")
 
     out.append('<section id="bom" class="cover"><h2>零件清单 (整机)</h2>'

diff --git a/CLAUDE.md b/CLAUDE.md
@@ -45,7 +45,7 @@
 - `docs/wiring/`：图解接线指南，`build.py` 生成 `index.html` 和洞洞板页 `perfboard.html`（洞洞板孔位数据在 `perfboard_layout.py`，同时生成 `docs/perfboard.md`；总览图、可筛选的完整接线图、分步清单、面包板布局（Pico 横放 c3~c22/h3~h22，USB 朝左；编码器分压电阻在下半区 26~33 列；上排电源轨为 5V/地；DRV8833 和舵机电源不走面包板；3V3 经 a7→J7.4 接 DRV8833 STBY）、Pico 引脚图、万用表检查、上电顺序），已发布 https://claude.ai/artifact/9V1v8omZyuEr52coL2C6QV 。**改引脚分配时，`firmware/pico/config.py`、`docs/single_arm.md`、`docs/wiring/build.py` 三处要一起改。**
 - `docs/arm_concept.md`：乐高机械手的概念设计（给用户搭建参考，非零件清单）。夹条的实现方式是 **U 形叉 + 舵机推动沿轴向前进/后退**：叉齿卡住面中间一列的两个棱块外侧，靠形状传递扭矩和托住魔方。关键尺寸：叉齿宽 ≤16mm、退出行程 ≥13mm、魔方面前 14mm 内除叉齿外不能有宽零件（按 56mm 魔方计算）。模型里"叉子水平时也能支撑魔方"这一点待验证。
 - `tools/lego/`：单臂原型的乐高模型（`model.py`）、干涉/连接检查（`run_check.py`）、说明书生成（`booklet.py`，输出 `docs/lego/`）。用 LDraw 官方零件几何（GitHub 镜像 gkjohnson/ldraw-parts-library，ldraw.org 被网络策略拦截）和 three.js LDrawLoader + 无头 Chromium 渲染。**改模型后必须先跑 `run_check.py` 零问题，再生成说明书。** Geekservo 按用户图纸建模（`make_custom_parts.py`）：本体 24×28.8×16mm，耳朵销孔相距 32mm，输出十字轴偏心 4mm。用户有 4 个灰色（270° 舵机，夹爪用这个）和 4 个红色（很可能是 360° 连续旋转马达版，待确认）。说明书有大马达版（`docs/lego/`，artifact https://claude.ai/artifact/BWgtEpkX4PGRGnYzvNV2L4 ）和中马达版（`docs/lego/medium/`，artifact https://claude.ai/artifact/7VtzEUtxMbezHPJQYCDWPX ），`model.build(motor=...)` 切换。中马达更快（约 1.5 倍）但扭矩约为大马达的 40%，够不够要用单臂原型实测；用户还缺 1~2 个马达，实测结果决定买哪种。零件只用常见件，不按套装限制。
-- `tools/lego/v3/`（2026-09-29）：按 CubeStormer 3 思路重新设计的**四臂整机**（肘节死点夹爪、舵机固定不随转、36 齿带 60 齿转盘、8 根 15 孔梁两层方框底座；框架只用在最需要刚度或三向交汇处，整机 40 块），`four_arm.py` 做四臂干涉扫描。结论：相邻两臂不能同时水平，规划器用 `Machine(no_adjacent_horizontal=True)` / `--no-adjacent-horizontal`（默认关）。说明书 `docs/lego/v3/`。v1、v2 不动。
+- `tools/lego/v3/`（2026-09-29）：按 CubeStormer 3 思路重新设计的**四臂整机**（肘节死点夹爪、舵机固定不随转、36 齿带 60 齿转盘、16 块框架的风车形底座；模块里框架只用在最需要刚度或三向交汇处，其余用竖梁和 L 形梁，整机 36 块），`four_arm.py` 做四臂干涉扫描。结论：相邻两臂不能同时水平，规划器用 `Machine(no_adjacent_horizontal=True)` / `--no-adjacent-horizontal`（默认关）。说明书 `docs/lego/v3/`。v1、v2 不动。
 - 运行测试：`python -m unittest -v`（57 个测试）。命令行：`python -m quadcuber plan|bench|armlog`。
 
 ## 已知问题和注意事项
